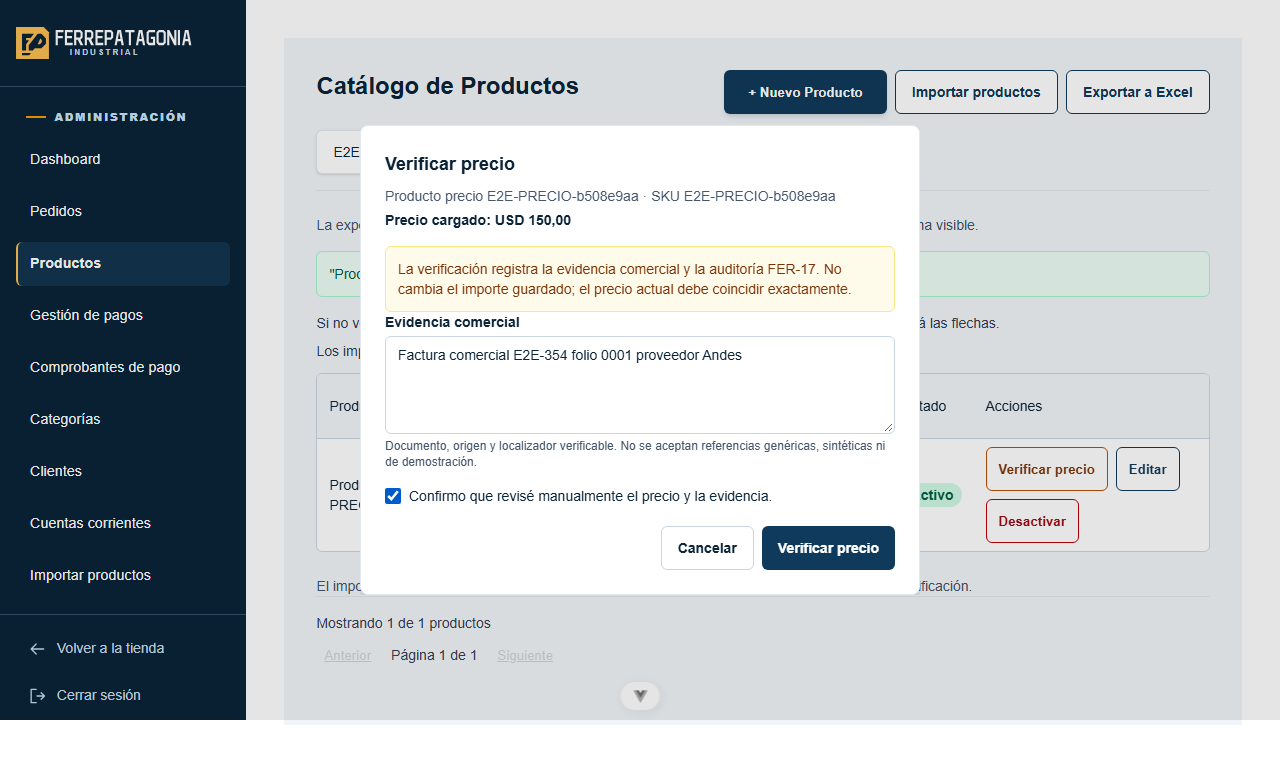
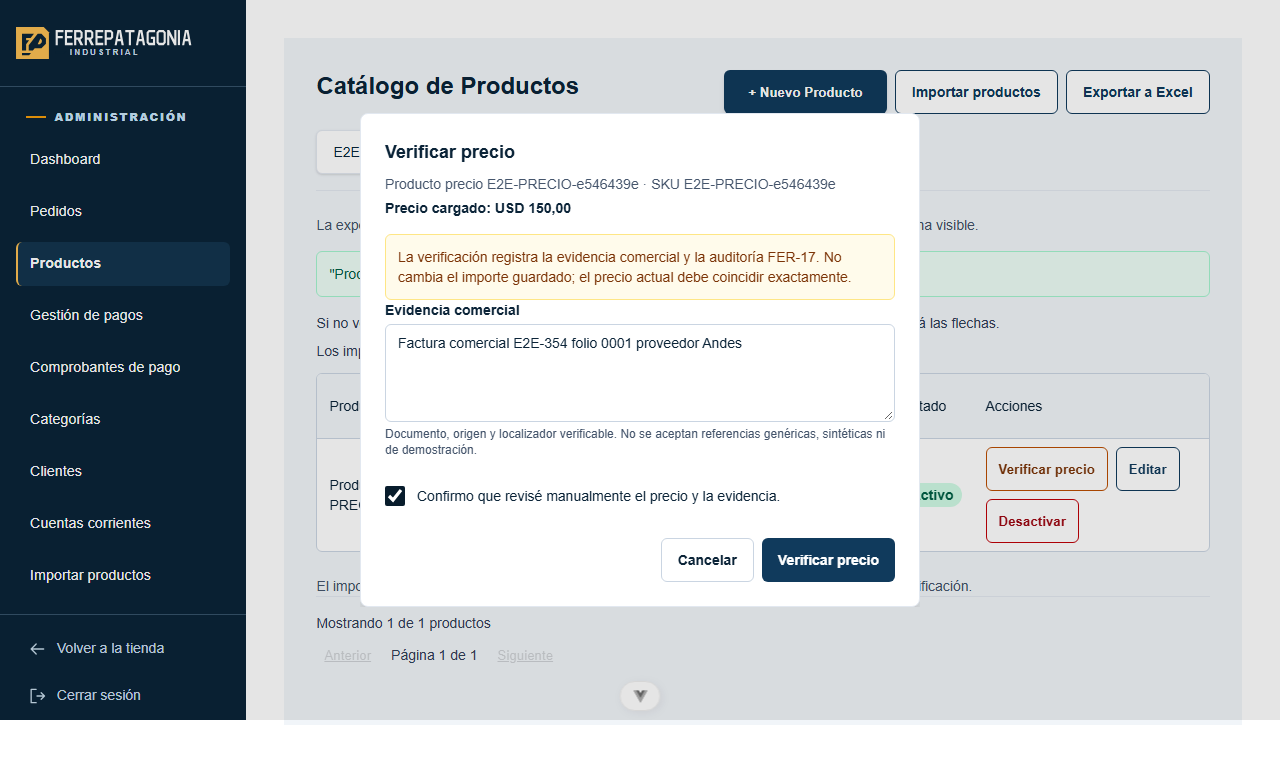
fix(ui): complete Tailwind resets and accessible checkbox in price verification dialog (#354)

Changed region(s): [[0.2812, 0.1505, 0.7188, 0.4817], [0.2812, 0.6623, 0.7188, 0.8128], [0.2812, 0.5419, 0.6875, 0.6623]]

diff --git a/frontend/src/components/AdminPriceVerificationDialog.vue b/frontend/src/components/AdminPriceVerificationDialog.vue
@@ -175,7 +175,7 @@ async function submit() {
             rows="4"
             :disabled="submitting"
             aria-describedby="price-evidence-help"
-            class="box-border w-full rounded-md border border-slate-300 bg-white px-3 py-2 font-[inherit] text-sm font-normal text-[#0B2438] disabled:opacity-60"
+            class="box-border w-full rounded-md border border-solid border-slate-300 bg-white px-3 py-2 font-[inherit] text-sm font-normal text-[#0B2438] focus-visible:outline-2 focus-visible:outline-solid focus-visible:outline-offset-2 focus-visible:outline-[#145A8D] disabled:opacity-60"
           />
           <span id="price-evidence-help" class="text-xs font-normal text-slate-600">
             Documento, origen y localizador verificable. No se aceptan referencias genéricas,
@@ -183,12 +183,12 @@ async function submit() {
           </span>
         </label>
 
-        <label class="flex items-start gap-2 text-sm text-[#0B2438]">
+        <label class="flex min-h-11 cursor-pointer items-center gap-3 text-sm text-[#0B2438]">
           <input
             v-model="confirmed"
             type="checkbox"
             :disabled="submitting"
-            class="mt-0.5 h-4 w-4"
+            class="box-border h-5 w-5 shrink-0 cursor-pointer accent-[#103A5C] focus-visible:outline-2 focus-visible:outline-solid focus-visible:outline-offset-2 focus-visible:outline-[#145A8D]"
           />
           <span>Confirmo que revisé manualmente el precio y la evidencia.</span>
         </label>
@@ -206,7 +206,7 @@ async function submit() {
         <button
           type="button"
           :disabled="submitting"
-          class="box-border min-h-11 rounded-md border border-slate-300 bg-white px-4 py-2 font-[inherit] text-sm font-semibold text-[#0B2438] disabled:opacity-50"
+          class="box-border min-h-11 cursor-pointer rounded-md border border-solid border-slate-300 bg-white px-4 py-2 font-[inherit] text-sm font-semibold text-[#0B2438] hover:bg-slate-50 focus-visible:outline-2 focus-visible:outline-solid focus-visible:outline-offset-2 focus-visible:outline-[#145A8D] disabled:cursor-not-allowed disabled:opacity-50"
           @click="close"
         >
           Cancelar
@@ -214,7 +214,7 @@ async function submit() {
         <button
           type="submit"
           :disabled="submitting || !confirmed || evidence.trim().length < 8"
-          class="box-border min-h-11 rounded-md border-0 bg-[#103A5C] px-4 py-2 font-[inherit] text-sm font-semibold text-white hover:bg-[#145A8D] disabled:cursor-not-allowed disabled:opacity-50"
+          class="box-border min-h-11 cursor-pointer rounded-md border-0 bg-[#103A5C] px-4 py-2 font-[inherit] text-sm font-semibold text-white hover:bg-[#145A8D] focus-visible:outline-2 focus-visible:outline-solid focus-visible:outline-offset-2 focus-visible:outline-[#145A8D] disabled:cursor-not-allowed disabled:opacity-50"
         >
           {{ submitting ? 'Verificando…' : uncertain ? 'Reintentar verificación' : 'Verificar precio' }}
         </button>
